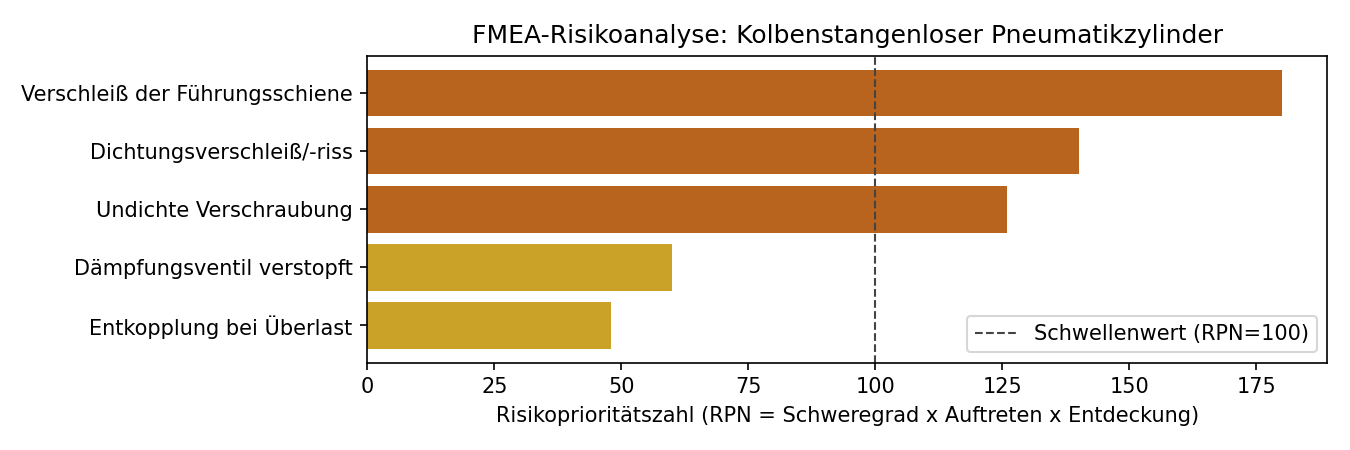
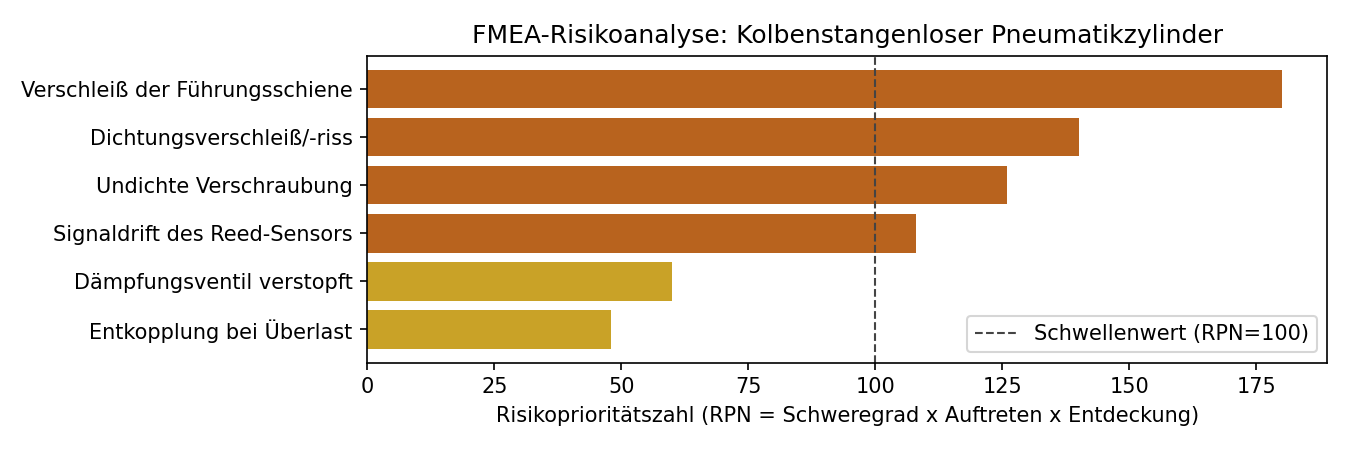
Add sixth failure mode: position sensor signal drift

Changed region(s): [[0.0, 0.1867, 0.9644, 0.7156], [0.0622, 0.7156, 0.28, 0.7778]]

diff --git a/scripts/run_fmea_demo.py b/scripts/run_fmea_demo.py
@@ -62,6 +62,14 @@ def build_analysis() -> FMEAAnalysis:
         severity=3, occurrence=6, detection=7,
         recommended_action="Drehmomentvorgabe für Verschraubung dokumentieren und prüfen",
     ))
+    analysis.add(FailureMode(
+        component="Positionssensor",
+        function="Erfassung der Schlittenposition für die Steuerung",
+        failure_mode="Signaldrift des Reed-Sensors",
+        effect="Steuerung erhält falsche Positionsrückmeldung, Fehlpositionierung möglich",
+        severity=6, occurrence=3, detection=6,
+        recommended_action="Sensor-Plausibilisierung in Steuerung ergänzen; Kalibrierintervall festlegen",
+    ))
     return analysis
 
 

diff --git a/README.md b/README.md
@@ -38,11 +38,12 @@ and cushioning valve can fail, and what that means in practice.
   and a horizontal bar chart, colored by risk band, with the action
   threshold marked.
 - **`scripts/run_fmea_demo.py`** — a complete worked example: an FMEA
-  of the rodless pneumatic cylinder from my SolidWorks coursework (five
+  of the rodless pneumatic cylinder from my SolidWorks coursework (six
   real, plausible failure modes: seal wear, guide rail wear, magnetic
   decoupling under overload, clogged end-cushioning valve, a loose
-  fitting), each traceable to a specific component in the CAD assembly
-  rather than an abstract textbook example.
+  fitting, position sensor signal drift), each traceable to a specific
+  component in the CAD assembly rather than an abstract textbook
+  example.
 
 ## Getting started
 
